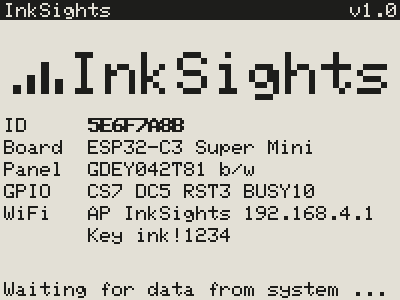
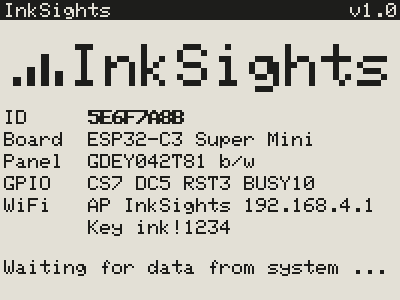
New example pictures, start screen spacing, NO DATA on yellow
- Examples: system page with a red top line, drive pages with yellow,
  the settings page, upright "Check connection", "Nothing to ink" and
  the simulator; start screen example made again; pictures placed in
  the README sections they belong to, the gallery has them all
- Start screen: "Waiting for data ..." as far from the last line above
  it as from the bottom edge
- Yellow panels: NO DATA in the black top line as a yellow box with
  black text (preview)

diff --git a/server/web/inksights-render.js b/server/web/inksights-render.js
@@ -507,10 +507,13 @@
     // in the third colour too (text white, black on yellow; user)
     const third = m.mono ? BK : RD, boxY = inv ? 0 : hy - hs, lit = inv && m.headCol === 1;
     const onBox = third === RD ? onThird : WH;
+    // "NO DATA" on a yellow panel: a yellow box with black text in the black header too (yellow
+    // text on white is hard to read; user)
+    const ndBox = inv || m.yellow;
     const put = (i, px, s) => {
       const nd = lay[i] === "N";
-      if (hi[i] || nd) fb.fillRect(px - 2 * hs, boxY, textW(s) * hs + 4 * hs, hy - hs + 9 * hs - boxY, nd ? (inv ? third : WH) : lit ? third : fg);
-      fb.text(px, hy, s, nd ? (inv ? onBox : third) : hi[i] ? (lit ? onBox : bg) : fg, hs);
+      if (hi[i] || nd) fb.fillRect(px - 2 * hs, boxY, textW(s) * hs + 4 * hs, hy - hs + 9 * hs - boxY, nd ? (ndBox ? third : WH) : lit ? third : fg);
+      fb.text(px, hy, s, nd ? (ndBox ? onBox : third) : hi[i] ? (lit ? onBox : bg) : fg, hs);
     };
     if (m.noData) {
       const at = [lay.indexOf("P"), lay.indexOf("U")].find(i => i >= 0) ?? [1, 2, 0].find(i => lay[i] === "-") ?? 1;
@@ -572,7 +575,7 @@
     const ver = `v${s.fw}`, verX = W - hx - textW(ver) * u;
     fb.text(verX, hy, ver, WH, u);
     clip(hx, hy, s.product, Math.trunc((verX - CW - hx) / CW), WH);   // cut before the version
-    const lh = 7 * u, waitY = H - 2 * u - lh, avail = waitY - 4 * u - HH;   // room between the header and the waiting line
+    const lh = 7 * u, avail = H - 6 * u - lh - HH;   // room for the name and the lines (their sizes)
     const lines = 4 + (s.wifi != null ? 1 : 0) + (s.wifi != null && s.key ? 1 : 0);
     let pitch = 11 * u;
     while (pitch > 9 * u && 7 * 2 * u + 6 * u + (lines - 1) * pitch + lh > avail) pitch--;
@@ -580,11 +583,19 @@
     let z = 3 * u;
     while (z > 1 && (7 * z + 6 * u + blockH > avail || textW(s.product) * z + logoW(z) > W - 2 * hx)) z--;
     const gap = clamp(avail - 7 * z - blockH - 4 * u, 2 * u, 12 * u), group = 7 * z + gap + blockH;
-    const ty = HH + Math.max(2 * u, Math.trunc((avail - group) / 2));
+    // the texts of the lines (the last one decides how far the text reaches down)
+    const x = hx + 7 * CW, maxC = Math.trunc((W - x) / CW);   // value column
+    const pin = p => (p < 0 ? "-" : String(p));
+    const pinLine = `CS${pin(s.pins[0])} DC${pin(s.pins[1])} RST${pin(s.pins[2])} BUSY${pin(s.pins[3])}`;
+    const last = s.wifi == null ? pinLine : s.key ? `Key ${s.key}` : s.wifi;
+    // g, j, p, q, y , ; reach one font pixel below the line (the waiting line always has them)
+    const down = /[gjpqy,;]/.test(last.slice(0, Math.min(39, maxC))) ? u : 0;
+    // the waiting line as far from the last line above it as from the bottom edge, as seen (user);
+    // the rest of the room goes above the name
+    const free = H - HH - (group + down) - (lh + u), g = Math.trunc(free / 3), ty = HH + free - 2 * g, waitY = H - g - u - lh;
     const nx = Math.trunc((W - textW(s.product) * z - logoW(z)) / 2);   // logo bars + name, centred together
     drawLogo(fb, nx, ty + 7 * z, z);
     fb.text(nx + logoW(z), ty, s.product, BK, z);
-    const x = hx + 7 * CW;   // value column
     let y = ty + 7 * z + gap;
     fb.text(hx, y, "ID", BK, u);
     fb.text(x, y, s.id, BK, u);
@@ -596,14 +607,13 @@
     fb.text(hx, y, "Panel", BK, u);
     fb.text(x, y, `${s.panel} ${s.color ? "b/w/color" : "b/w"}`, BK, u);
     y += pitch;
-    const pin = p => (p < 0 ? "-" : String(p));
     fb.text(hx, y, s.pinTitle, BK, u);
-    clip(x, y, `CS${pin(s.pins[0])} DC${pin(s.pins[1])} RST${pin(s.pins[2])} BUSY${pin(s.pins[3])}`, Math.trunc((W - x) / CW), BK);
+    clip(x, y, pinLine, maxC, BK);
     if (s.wifi != null) {
       y += pitch;
       fb.text(hx, y, "WiFi", BK, u);
-      clip(x, y, s.wifi, Math.trunc((W - x) / CW), BK);
-      if (s.key) clip(x, y + pitch, `Key ${s.key}`, Math.trunc((W - x) / CW), BK);   // how to set it up: the access point password
+      clip(x, y, s.wifi, maxC, BK);
+      if (s.key) clip(x, y + pitch, `Key ${s.key}`, maxC, BK);   // how to set it up: the access point password
     }
     fb.text(hx, waitY, "Waiting for data from system ...", BK, u);
   }

diff --git a/README.md b/README.md
@@ -6,7 +6,7 @@ Shows the drive status of a system on small e-paper displays, typically a server
 a system page with CPU, RAM, network and drive temperatures. Every display hangs on its own small board, plugged
 into the server via USB or (boards with WiFi) running anywhere in reach of the WiFi. All settings are made on a small web page.
 
-![System page on a 2.13″ display: CPU, RAM, network and drive temperatures](examples/example_02_2-13_system_page.png)
+<img src="examples/example_08_2-13_system_page_red_header.png" alt="System page on a 2.13″ display with a red top line: CPU, RAM, network and drive temperatures" width="400">
 
 More pictures: [examples](examples/)
 
@@ -52,6 +52,8 @@ Per drive one row:
 - **Temperature** of each drive (optional), `--` or `STBY` for a hard disk that is asleep
 - **Spindown timer** for hard disks at the right end of the bar: a **badge** with the time left (MM:SS, "SLEEP" when
   asleep) or a **ring** that shrinks until spindown (dotted when asleep)
+
+<img src="examples/example_04_4-2_drives_pages_yellow.png" alt="Drive page on a 4.2″ display with yellow as third colour: symbols, pools, bars with the used capacity, temperatures and spindown rings" width="400">
 
 The top line shows the title (default: name of the NAS server), the time and the page number; the uptime instead or
 as well, any order, highlighted or not, white on black or inverted, or no top line at all (see [Header card](#header-card)).
@@ -388,6 +390,8 @@ directly; only for one with fast refresh a copy goes to `live/` (without WiFi se
 
 Boards with WiFi work over USB without any WiFi setup. To run a display over WiFi (it then only needs power):
 
+<img src="examples/example_01_4-2_access_point.png" alt="Start screen of a 4.2″ display: no WiFi set up yet, so the board has opened its setup access point and shows its password" width="400">
+
 1. **Set up the WiFi**, either
    - **on the settings page** while the board is plugged into the NAS server: open its **WiFi** card, enter the WiFi
      network, password and the address of the settings page (e.g. `http://192.168.1.10:8099`), *Save*. The settings
@@ -435,10 +439,12 @@ page and the simulator are then online at `https://<user>.github.io/<repository>
 ## 5. The settings page
 
 Open **http://&lt;server&gt;:8099**. Every display appears with a live preview of what it will show, and below it its own
-foldable cards **Display**, **Header**, **System**, **Drives**, **Network** and (boards with WiFi) **WiFi**. A new display starts
-with the header and the system page; switch the drive pages on in its Drives card. Change settings, *Save*, and
-the NAS server applies them within a minute. The page itself shows no explanations, to keep it tidy; they are here.
-Which cards are folded is remembered per browser.
+foldable cards **Display**, **Header**, **System**, **Drives**, **Network**, (boards with WiFi) **WiFi** and **Backup**. A new
+display starts with the header and the system page; switch the drive pages on in its Drives card. Change settings,
+*Save*, and the NAS server applies them within a minute. The page itself shows no explanations, to keep it tidy; they
+are here. Which cards are folded is remembered per browser.
+
+<img src="examples/example_09_settings_page.png" alt="The settings page with two displays: live previews, the Display cards open, the other cards folded" width="100%">
 
 **At the top of the page** (for all displays):
 
@@ -530,6 +536,8 @@ The top line of the display.
 | **Order and visibility by** | Pool, UID, Device, Custom (▲▼) | The tick next to each disk shows or hides it on this display. Names like sda can change after a reboot, so Pool, UID and Custom use the serial number (UID); Device orders by name. |
 
 ### Network card
+
+<img src="examples/example_05_4-2_network_page.png" alt="Network page on a 4.2″ display: download, upload and link speed per interface" width="400">
 
 Pages with one row per network interface, after the drive pages, as many rows per page as the drive pages.
 
@@ -657,6 +665,13 @@ SSD and NVMe temperatures do not need it.
   or the uptime stands, and **Check connection** in the middle below a picture of the empty table, and stops turning pages. The time at the top right
   stays: that is when the last data came. With the next fresh data the pages come back. Reasons: the board is
   unplugged or the NAS server is off, the script or the settings page does not run, or a WiFi board lost its WiFi.
+
+  <img src="examples/example_10_2-13_portrait_no_connection.png" alt="A 2.13″ display upright without fresh data: NO DATA in the top line, Check connection below the empty table" width="244">
+
+- **Nothing to ink.** With every page of a display switched off (no system, drive, network or WiFi page), it shows
+  **Nothing to ink** below a picture of three people at a table, so it never looks broken.
+
+  <img src="examples/example_11_4-2_nothing_to_ink.png" alt="A 4.2″ display with every page switched off: Nothing to ink below three people at a table" width="400">
 - **Refresh in seconds and minutes:** a display on seconds gets fresh system values and timers that often; its
   drives and pools come from the full updates, at least once a minute while such a display is there.
 - **The app is isolated.** It has no USB access and no rights on the NAS server; it only shares the data folder with

diff --git a/examples/README.md b/examples/README.md
@@ -1,7 +1,7 @@
 # Examples
 
-What the displays show, drawn with the preview of the settings page (the same drawing as on the display). All
-names and values are examples.
+What the displays show, drawn with the preview of the settings page (the same drawing as on the display), and
+the settings page itself. All names and values are examples.
 
 [Back to the README](../README.md)
 
@@ -21,6 +21,13 @@ CPU with temperature, power and load, RAM with the ZFS cache (grey), the network
 upload, and the temperatures of the NVMe drive, the SSDs and the hard disks; hard disks that are asleep show
 `STBY`. Top line: title, page number, time.
 
+### 2.13″ system page with a red top line
+
+![2.13″ system page with a red top line](example_08_2-13_system_page_red_header.png)
+
+The same page with **Invert colors** and **Highlight color** in the Header card: a white top line, its highlighted
+places (title, page number, time) in the third colour with white text.
+
 ### 2.13″ drive page with highlight
 
 ![2.13″ drive page with highlight](example_03_2-13_drives_page_highlight.png)
@@ -37,6 +44,14 @@ The used capacity inside the bar, the total at the right, the temperature beside
 its total inverted (black/white panel). Spindown timer as a ring: shrinking ring = time left, circle with a
 dash = timer not running, dotted circle = asleep (temperature `STBY`). Inverted top line with highlighted
 places: title, time, uptime.
+
+### 4.2″ drive pages with yellow
+
+![4.2″ drive pages with yellow](example_04_4-2_drives_pages_yellow.png)
+
+The same page as it would look with yellow as third colour: the pool above 85 % gets a yellow bar, the highlighted
+places of the top line yellow boxes; text on yellow is black. The 4.2″ panel InkSights supports is black/white, so
+this shows the colour rules rather than a panel you can buy for it today.
 
 ### 4.2″ network page
 
@@ -58,3 +73,36 @@ The same page without symbols, with how busy the link is (percentage) inside the
 
 The WiFi network the board is connected to, its IP address and how long it has been connected without a break.
 Shown in the preview so far; the firmware does not draw this page yet.
+
+### 2.13″ upright without connection
+
+![2.13″ upright without connection](example_10_2-13_portrait_no_connection.png)
+
+The display got no fresh data for too long: **NO DATA** in the top line (in the third colour) and **Check
+connection** below a picture of the empty table. The time is when the last data came. Turned by 90° in the
+Display card, the display keeps its sizes.
+
+### 4.2″ with nothing to show
+
+![4.2″ with nothing to show](example_11_4-2_nothing_to_ink.png)
+
+Every page of this display is switched off (no system, drive, network or WiFi page): **Nothing to ink** below a
+picture of three people at a table, so the display never looks broken.
+
+### The settings page
+
+![The settings page](example_09_settings_page.png)
+
+Two displays with their live previews; below each its cards, here the **Display** card open (names, panel, rotation,
+rows per page, page turn, refresh, display pins) and the others folded, each with its **Ink** tick that switches
+that page on or off.
+
+### The simulator
+
+![The Simulation card of the simulator](example_12_simulator.png)
+
+`simulator/simulator.html` is the same settings page with simulated data; its **Simulation** card sets them: where
+the data come from (disk list or a pasted frame), the time and host name, a controller that does not answer, per
+display the board, panel, connection, WiFi network and **Connected** / **No data** / **Start screen**, the system
+values (**Live values** = a running system) and the drives with storage, usage, temperature and spindown state.
+**Update notice · Test** shows the line about a new version.
